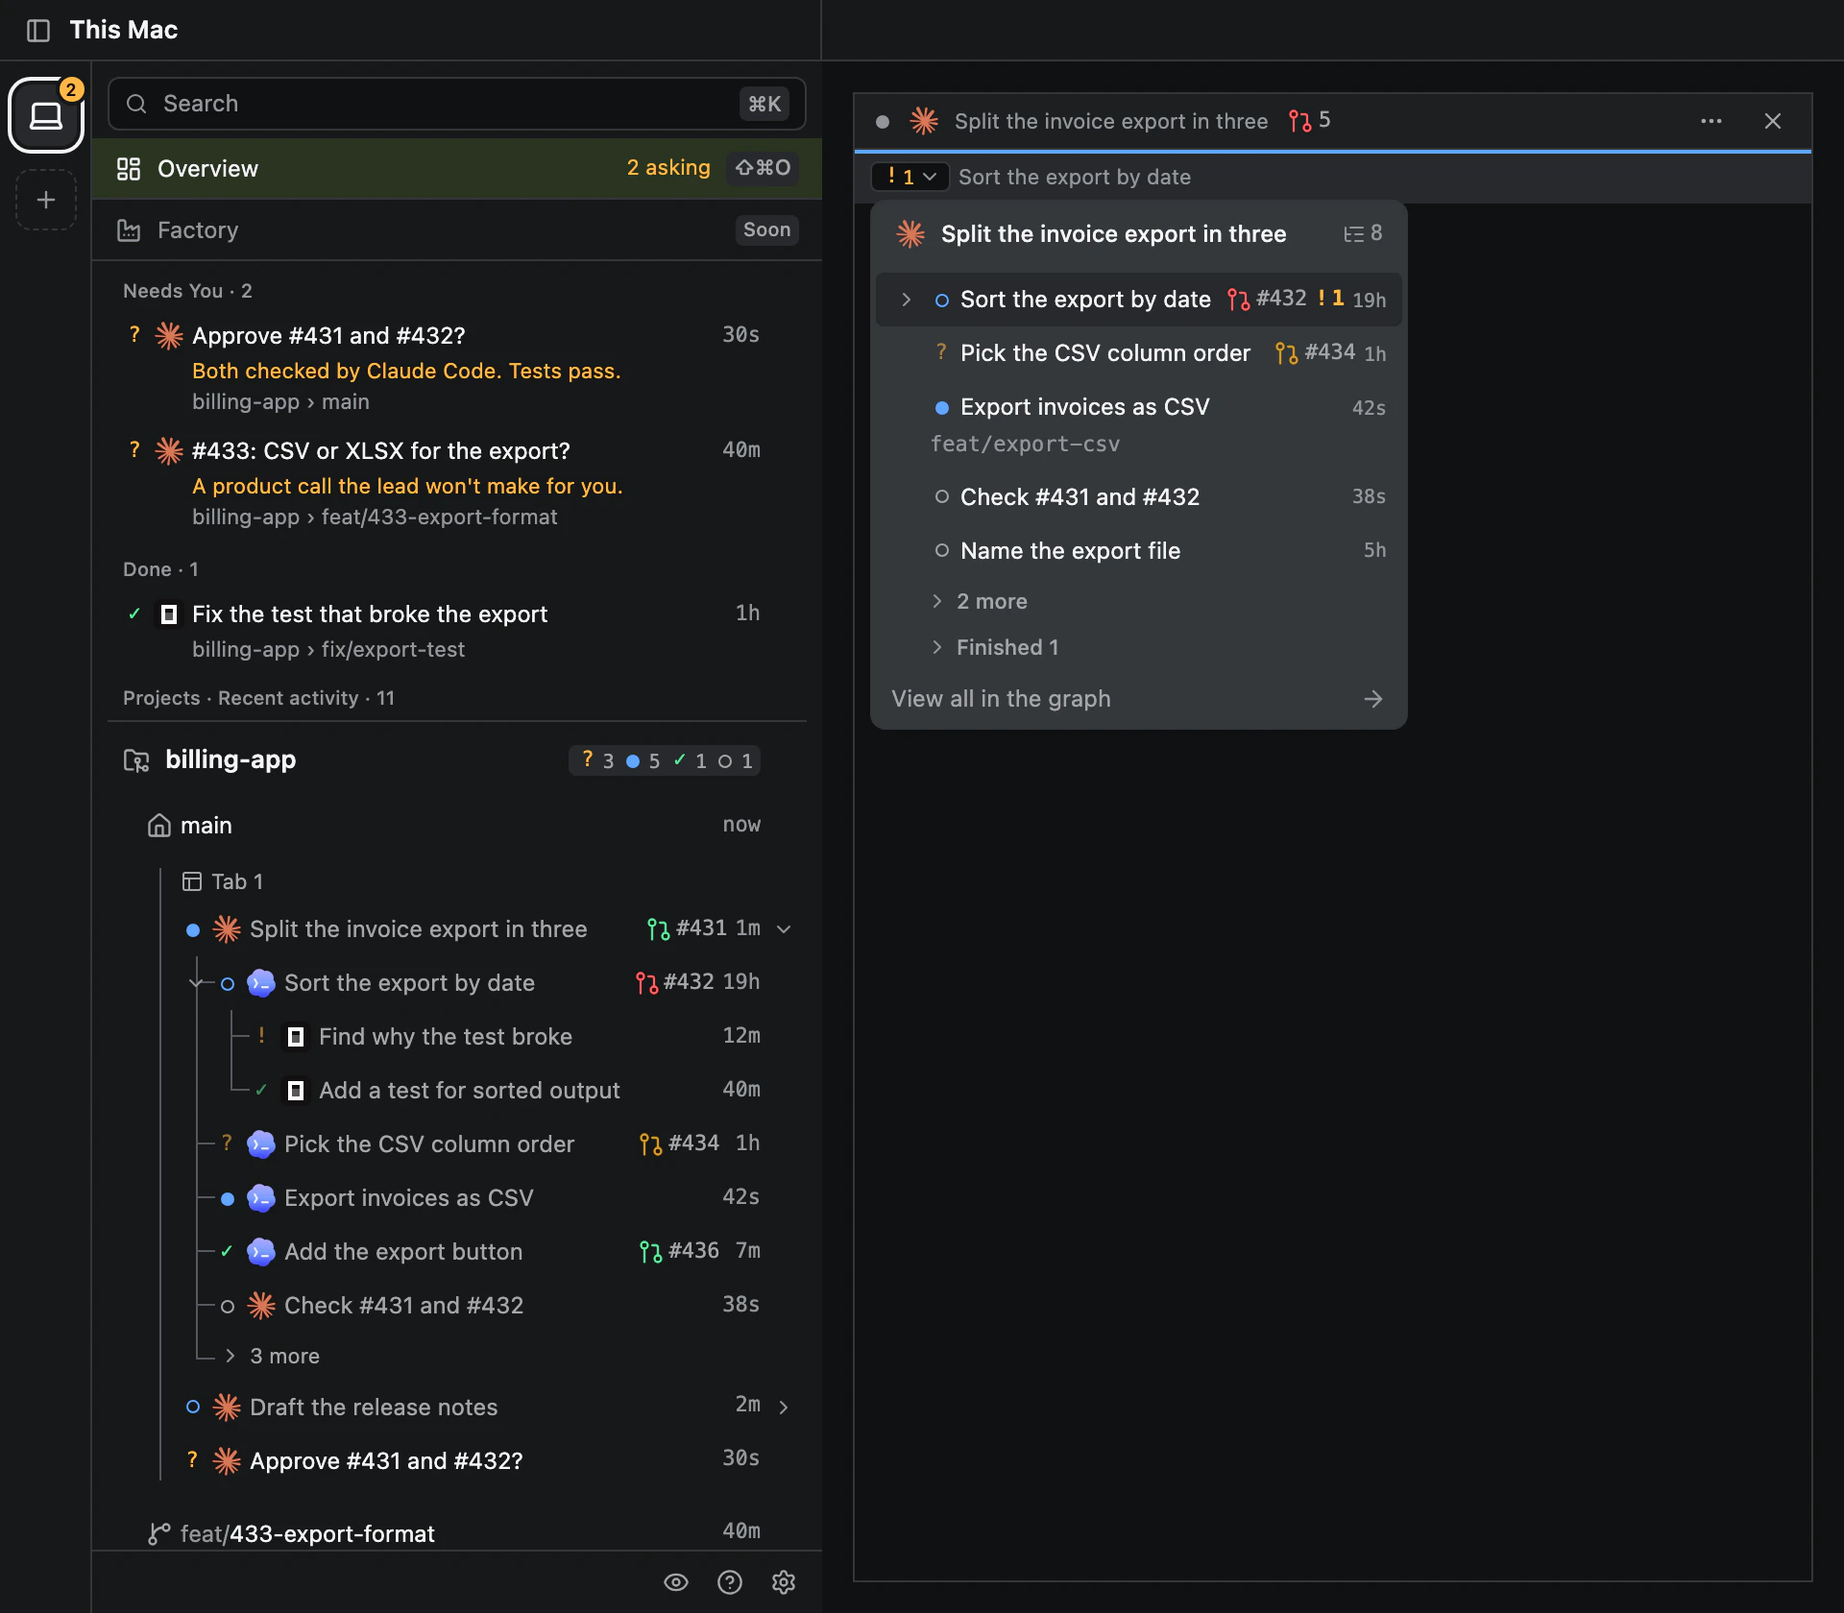
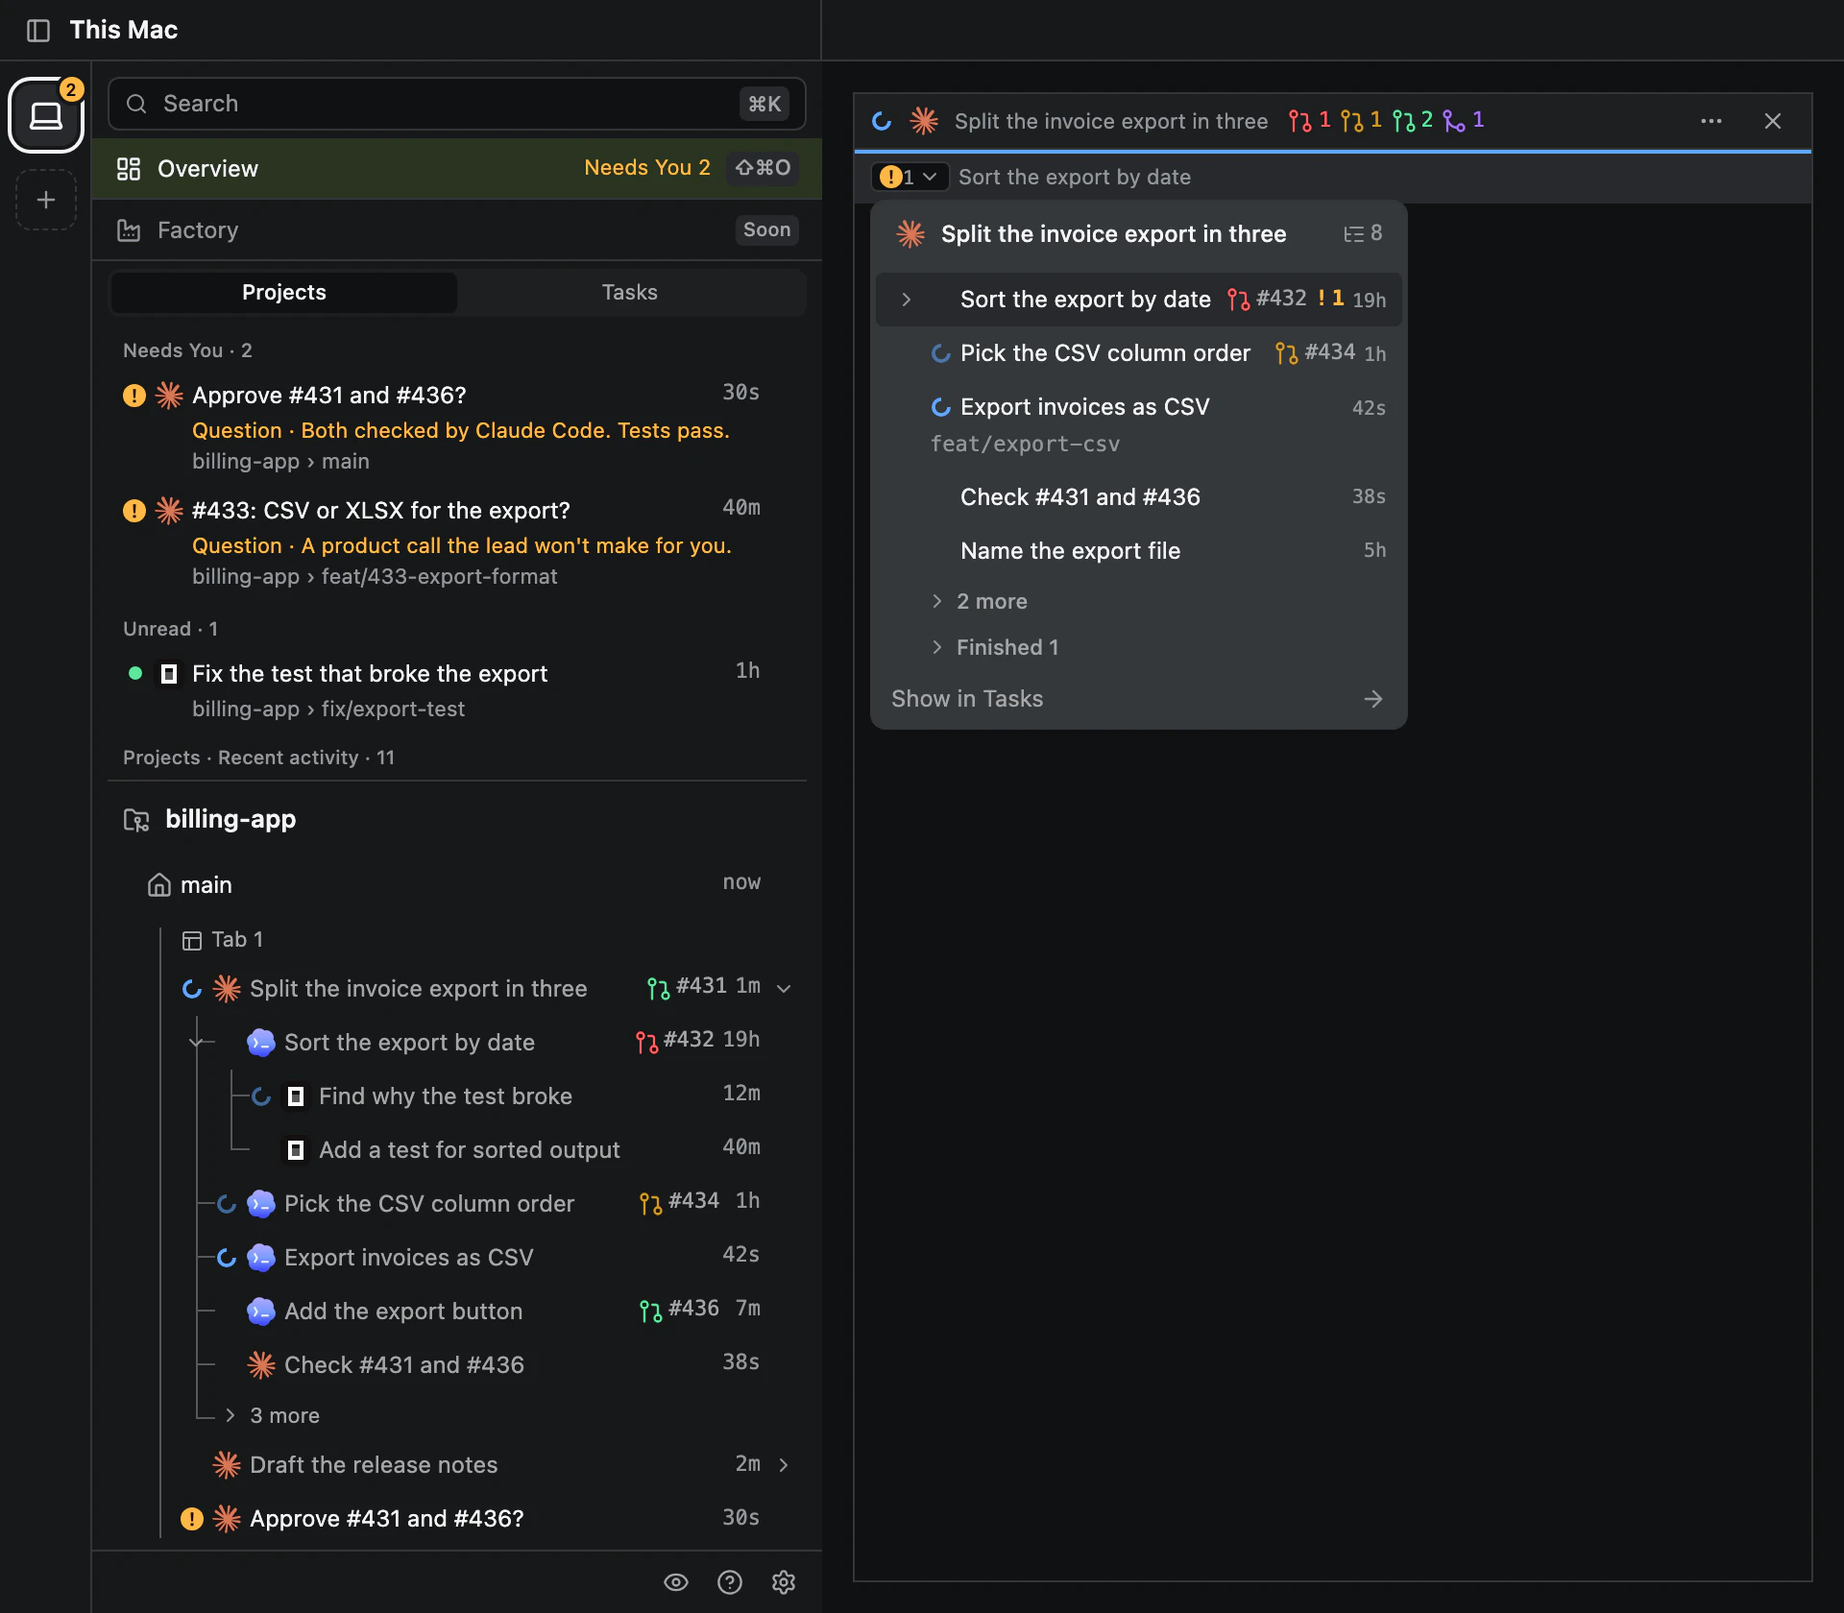
feat: capture the site hero from the shell's own window

diff --git a/web/src/gallery/landingSceneData.ts b/web/src/gallery/landingSceneData.ts
@@ -1,12 +1,13 @@
-// The product shots on the introduction site (site/index.html, the three
-// pillars): the story of its one-night timeline, drawn by the shell's own
-// components. Everything is the gallery's frozen sidebar fixture with its
-// invented text replaced, never a second projection: the groups, counts and
-// tree shape are what the core wrote for that fixture, and only the words and
-// agent kinds a visitor reads are English and match the page. No name here is
-// a person, a machine or a path of anyone's.
+// The product shots on the introduction site (site/index.html, the hero and
+// the three pillars): the story of its one-night timeline, drawn by the
+// shell's own components. Everything is the gallery's frozen sidebar fixture
+// with its invented text replaced, never a second projection: the groups,
+// counts and tree shape are what the core wrote for that fixture, and only the
+// words and agent kinds a visitor reads are English and match the page. No
+// name here is a person, a machine or a path of anyone's.
 
-import type { AgentRow, Checkout, Device, SnapshotRest, Workspace } from "../snapshot";
+import type { PrBoard } from "../agentScope";
+import type { AgentRow, Checkout, Device, PullRequest, SnapshotRest, Workspace } from "../snapshot";
 import type { MobileState } from "../mobileSettings";
 import { EMPTY_GALLERY_SCOPE } from "./agentScopes";
 import { REFERENCE_FOLDS, sidebarScene } from "./sceneData";
@@ -18,14 +19,14 @@ const ref = (number: number) => `#${number}`;
 type Words = { title: string; kind: string; detail?: string; pull?: [number, string] };
 
 const AGENT_WORDS: Record<string, Words> = {
-  a3: { title: `Approve ${ref(431)} and ${ref(432)}?`, kind: "claude", detail: "Both checked by Claude Code. Tests pass." },
+  a3: { title: `Approve ${ref(431)} and ${ref(436)}?`, kind: "claude", detail: "Both checked by Claude Code. Tests pass." },
   q1: { title: `${ref(433)}: CSV or XLSX for the export?`, kind: "claude", detail: "A product call the lead won't make for you." },
   q2: { title: "Fix the test that broke the export", kind: "opencode" },
   e1: { title: "Task detail API", kind: "codex" },
   tn1: { title: "Tidy the meeting notes", kind: "claude" },
   a1: { title: "Split the invoice export in three", kind: "claude", pull: [431, "Export invoices as CSV"] },
   a1c1: { title: "Export invoices as CSV", kind: "codex" },
-  a1c2: { title: `Check ${ref(431)} and ${ref(432)}`, kind: "claude" },
+  a1c2: { title: `Check ${ref(431)} and ${ref(436)}`, kind: "claude" },
   a1c3: { title: "Sort the export by date", kind: "codex", pull: [432, "Sort the export by date"] },
   a1g1: { title: "Find why the test broke", kind: "opencode" },
   a1g2: { title: "Add a test for sorted output", kind: "opencode" },
@@ -172,3 +173,131 @@ export function landingDevices(nowMs: number, width: number): { rest: SnapshotRe
   };
   return { rest, agents: scene.agents, mobile };
 }
+
+/**
+ * Which group of the hero's PRs tool each pull request state goes in, and the
+ * agent the row names for it: the core's own states for the story's pull
+ * requests, so the list agrees with the marks the sidebar draws for them.
+ */
+const HERO_PULL_GROUPS: Record<PullRequest["state"], PrBoard["rows"][number]["group"] | null> = { mergeable: "needs_you", failed: "working", pending: "working", merged: "merged", draft: null, closed: null };
+const HERO_PULL_AGENTS: Record<number, string> = { 431: "a3", 436: "a3", 432: "a1g1" };
+
+/** The PRs tool's width in the hero, narrow enough that the two terminals beside it read whole. */
+const HERO_LANE_WIDTH = 360;
+
+/** The two panes the hero shows side by side, of the billing-app main checkout's one Agent tab. */
+export const HERO_PANES = ["a1", "a3"] as const;
+
+/**
+ * The hero: the attention shot's window with the billing-app main checkout in
+ * front, its lead and the agent asking to merge side by side, and the PRs tool
+ * pinned beside them listing what those agents opened.
+ */
+export function landingWorkspace(nowMs: number, width: number): { rest: SnapshotRest; agents: AgentRow[] } {
+  const scene = landingSidebar(nowMs, [], width);
+  const navigator = scene.rest.navigator!;
+  const project = navigator.workspaces!.find((row) => row.id === "hide")!;
+  const main = project.checkouts[0]!;
+  const tab = main.tabs[0]!;
+  const story = scene.agents.flatMap((row) => (row.request?.pull_requests ?? []).map((pull, index) => ({ pull, row, state: row.state.pr?.pulls.find((one) => one.index === index)?.state })));
+  const listed = story.flatMap(({ pull, row, state }) => {
+    const group = state ? HERO_PULL_GROUPS[state] : null;
+    return state && group ? [{ pull, state, group, agent: HERO_PULL_AGENTS[pull.number] ?? row.pane_id }] : [];
+  });
+  const pulls: PullRequest[] = listed.map(({ pull, state }) => ({
+    number: pull.number, title: pull.title, url: pull.url, badge: pull.badge, review: pull.review ?? null, is_draft: false, checks: pull.checks,
+    head_branch: pull.head_branch, base_branch: "main", closing_issues: [], state, created_at_unix_ms: nowMs - 40 * 60_000, updated_at_unix_ms: nowMs - 2 * 60_000,
+    ...(state === "merged" ? { merged_at_unix_ms: nowMs - 9 * 60_000 } : {}),
+  }));
+  const groups = (["needs_you", "working", "merged"] as const).map((group) => ({ group, numbers: listed.filter((item) => item.group === group).map((item) => item.pull.number) }));
+  const prs: PrBoard = {
+    rows: listed.map(({ pull, state, group, agent }) => ({
+      number: pull.number, group, fold: null,
+      reason: group === "needs_you" ? { kind: "merge" } : group === "merged" ? { kind: "merged", since_unix_ms: nowMs - 9 * 60_000 } : state === "failed" ? { kind: "failed", since_unix_ms: nowMs - 12 * 60_000 } : { kind: "working", since_unix_ms: nowMs - 6 * 60_000 },
+      agents: [{ pane_id: agent, occurrence: 0 }], agent_pane: agent, checkout_id: main.id, checkout_ids: [main.id], issue: null,
+    })),
+    groups,
+    needs_you: groups[0]!.numbers.length,
+  };
+  const github = { failure_category: null, available: true, loading: false, stale: false, last_success_at_unix_ms: nowMs - 60_000, unavailable_reason: null };
+  // A pane's header reads the title its agent row carries.
+  const titled = { ...tab, panes: tab.panes.map((pane) => ({ ...pane, identity_label: scene.agents.find((row) => row.pane_id === pane.id)?.identity_label ?? pane.identity_label })) };
+  const front: Workspace = { ...project, is_git: true, pull_requests: pulls, agent_scope: { ...project.agent_scope, prs }, checkouts: project.checkouts.map((checkout) => (checkout === main ? { ...checkout, github, tabs: [titled] } : checkout)) };
+  const rest: SnapshotRest = {
+    ...scene.rest,
+    navigator: { ...navigator, focused_workspace_id: project.id, focused_checkout_id: main.id, workspaces: navigator.workspaces!.map((row) => (row === project ? front : row)) },
+    pane_layouts: [{ workspace_id: project.id, tab_id: tab.id!, focused_pane_id: HERO_PANES[1], zoomed: false, root: { type: "split", direction: "right", ratio: 0.5, first: { type: "pane", pane_id: HERO_PANES[0] }, second: { type: "pane", pane_id: HERO_PANES[1] } } }],
+    workspace_view: {
+      agent_layout: { root: { area: { id: "g1", active: tab.id, displays: [{ id: tab.id! }] } }, active_area: "g1", canvases: {}, limits: { areas: 4, depth: 3, displays: 64 }, display_count: 1 },
+      device_id: "local", path: main.path, tool: "prs", last_tool: "prs", prs: { only_checkout: false }, pinned: true, tree: false, lane_width: HERO_LANE_WIDTH, tree_width: null, lane_called: 0, lane_calls: 0,
+      layout: { root: { area: { id: "v1", active: null, displays: [] } }, active_area: "v1", limits: { areas: 4, depth: 3, displays: 32 }, display_count: 0 },
+    },
+    terminal: { headers: { a1: { working: true, band: null } } },
+  };
+  return { rest, agents: scene.agents };
+}
+
+const CLAUDE = "\x1b[38;2;215;119;87m";
+const DIM = "\x1b[90m";
+const BOLD = "\x1b[1m";
+const GREEN = "\x1b[32m";
+const RESET = "\x1b[0m";
+const lines = (...rows: string[]) => rows.join("\r\n");
+
+/**
+ * What each hero pane's terminal shows: an agent CLI's own screen, as its
+ * program would draw it, over the page's story. `RULE` is drawn across the
+ * pane's width when it is written; the lead's screen starts two rows down,
+ * under the row of its child that asks.
+ */
+export const RULE = "{rule}";
+export const HERO_TERMINALS: Record<(typeof HERO_PANES)[number], string> = {
+  a1: lines(
+    "",
+    "",
+    `${CLAUDE}✻${RESET} ${BOLD}Claude Code${RESET}`,
+    `  ${DIM}~/billing-app · main${RESET}`,
+    "",
+    `${DIM}>${RESET} Split the invoice export in three`,
+    "",
+    "● Three parts, one Codex worker each.",
+    "",
+    `● ${BOLD}Bash${RESET}(hide agent spawn …)`,
+    `  ${DIM}⎿${RESET}  Export invoices as CSV`,
+    `● ${BOLD}Bash${RESET}(hide agent spawn …)`,
+    `  ${DIM}⎿${RESET}  Sort the export by date`,
+    `● ${BOLD}Bash${RESET}(hide agent spawn …)`,
+    `  ${DIM}⎿${RESET}  Add the export button`,
+    "",
+    "● The workers report back to me, and I",
+    "  check each pull request before you.",
+    "",
+    `${CLAUDE}✻ Waiting on 3 workers… ${DIM}(6m 12s)${RESET}`,
+    "",
+    `${DIM}${RULE}${RESET}`,
+    `${DIM}>${RESET} `,
+    `${DIM}${RULE}${RESET}`,
+    `  ${DIM}⏵⏵ accept edits on${RESET}`,
+  ),
+  a3: lines(
+    "",
+    `${CLAUDE}✻${RESET} ${BOLD}Claude Code${RESET}`,
+    `  ${DIM}~/billing-app · main${RESET}`,
+    "",
+    `${DIM}>${RESET} Check #431 and #436, then ask me`,
+    "",
+    `● ${BOLD}Bash${RESET}(pnpm test export)`,
+    `  ${DIM}⎿${RESET}  ${GREEN}38 passed${RESET}`,
+    "",
+    "● Both pull requests are ready:",
+    "  #431 Export invoices as CSV",
+    "  #436 Add the export button",
+    "",
+    `${DIM}${RULE}${RESET}`,
+    ` ${BOLD}Merge both into main?${RESET}`,
+    "",
+    ` ${CLAUDE}❯ 1. Yes, merge both${RESET}`,
+    "   2. Only #431",
+    "   3. Not yet",
+  ),
+};

diff --git a/web/src/gallery/LandingScene.tsx b/web/src/gallery/LandingScene.tsx
@@ -1,14 +1,16 @@
-// The introduction site's product shots (site/index.html, the pillars): the
-// shell's own Sidebar, pane header and Settings tabs over the invented story
-// of the page's one-night timeline (`landingSceneData.ts`). One shot fills one
-// document, because the stores a scene seeds are the app's singletons;
-// `site/scripts/capture-shots.mjs` photographs each in both themes.
+// The introduction site's product shots (site/index.html, the hero and the
+// pillars): the shell's own window, Sidebar, pane header and Settings tabs
+// over the invented story of the page's one-night timeline
+// (`landingSceneData.ts`). One shot fills one document, because the stores a
+// scene seeds are the app's singletons; `scripts/capture-site-shots.mjs`
+// photographs each in both themes.
 //
-//   attention  the sidebar with the Needs You and Done groups raised above the project tree
+//   hero       the whole window: the sidebar, a lead and the agent asking to merge side by side, and the PRs tool
+//   attention  the sidebar with the Needs You and Unread groups raised above the project tree
 //   agents     a lead with its children across agent CLIs in the tree, and the lead's pane header with its child row
 //   core       the device rail beside Settings > Devices and the paired phone
 
-import { useLayoutEffect, useMemo } from "react";
+import { useEffect, useLayoutEffect, useMemo, useState } from "react";
 import { createActions } from "../actions";
 import { TooltipProvider } from "../components/ui/tooltip";
 import { clientI18n } from "../i18n/translator";
@@ -17,11 +19,13 @@ import { PaneView } from "../PaneView";
 import { DevicesTab } from "../settings/DevicesTab";
 import { Sidebar } from "../sidebar";
 import { useShellStore } from "../store";
+import { feedChunks, terminalFor } from "../terminals";
 import { TitleRow } from "../TitleRow";
 import { useUiStore } from "../ui";
-import { landingDevices, landingSidebar } from "./landingSceneData";
+import { WorkspaceScreen } from "../WorkspaceScreen";
+import { HERO_PANES, HERO_TERMINALS, RULE, landingDevices, landingSidebar, landingWorkspace } from "./landingSceneData";
 
-export const LANDING_SHOTS = ["attention", "agents", "core"] as const;
+export const LANDING_SHOTS = ["hero", "attention", "agents", "core"] as const;
 export type LandingShot = (typeof LANDING_SHOTS)[number];
 /** `narrow` is the phone variant: the key part of the shot alone, at a width a phone shows without sideways scrolling. */
 export type LandingSceneParams = { shot: LandingShot; theme: "light" | "dark"; narrow: boolean };
@@ -33,7 +37,7 @@ export function landingSceneParams(params: URLSearchParams): LandingSceneParams 
 }
 
 /** The sidebar's width: wide enough that the page's example titles read whole, narrower where Settings needs the room. */
-const SIDEBAR_WIDTH: Record<LandingShot, number> = { attention: 380, agents: 380, core: 340 };
+const SIDEBAR_WIDTH: Record<LandingShot, number> = { hero: 320, attention: 380, agents: 380, core: 340 };
 /** The phone variant of the agents shot is the sidebar tree alone. */
 const NARROW_SIDEBAR_WIDTH = 372;
 
@@ -42,6 +46,7 @@ export function LandingScene({ shot, theme, narrow }: LandingSceneParams) {
   const fixture = useMemo(() => {
     const now = Date.now();
     if (shot === "core") return { ...landingDevices(now, SIDEBAR_WIDTH.core), pane: null };
+    if (shot === "hero") return { ...landingWorkspace(now, SIDEBAR_WIDTH.hero), pane: null, mobile: null };
     const scene = landingSidebar(now, shot === "agents" ? ["a1"] : [], narrow ? NARROW_SIDEBAR_WIDTH : SIDEBAR_WIDTH[shot]);
     const lead = scene.agents.find((row) => row.pane_id === "a1")!;
     const pane = { ...scene.rest.navigator!.workspaces!.find((row) => row.id === "hide")!.checkouts[0]!.tabs[0]!.panes.find((row) => row.id === "a1")!, identity_label: lead.identity_label };
@@ -52,11 +57,30 @@ export function LandingScene({ shot, theme, narrow }: LandingSceneParams) {
 
   useLayoutEffect(() => {
     useShellStore.setState({ rest: fixture.rest, agents: fixture.agents, mobile: fixture.mobile, connection: "live" });
-    useUiStore.setState({ screen: { kind: "main" }, overviewOpen: false });
+    useUiStore.setState({ screen: { kind: shot === "hero" ? "workspace" : "main" }, overviewOpen: false, laneShown: shot === "hero" });
     const root = document.documentElement;
     root.classList.toggle("dark", theme === "dark");
     root.classList.toggle("light", theme === "light");
   }, [fixture, theme]);
+
+  // The hero's terminals show what each agent CLI drew, written as the core
+  // streams a pane's output, once each terminal has fitted its pane: a pane
+  // keeps no scrollback, so text written into a smaller grid would be lost.
+  const [written, setWritten] = useState(false);
+  useEffect(() => {
+    if (shot !== "hero") return;
+    const encode = (text: string) => btoa(String.fromCharCode(...new TextEncoder().encode(text)));
+    let frame = requestAnimationFrame(function wait() {
+      const fitted = HERO_PANES.every((id) => (terminalFor(id)?.rows ?? 0) > HERO_TERMINALS[id].split("\r\n").length);
+      if (!fitted) {
+        frame = requestAnimationFrame(wait);
+        return;
+      }
+      feedChunks(HERO_PANES.map((pane_id) => ({ pane_id, bytes_base64: encode(HERO_TERMINALS[pane_id].replaceAll(RULE, "─".repeat(terminalFor(pane_id)!.cols))) })));
+      setWritten(true);
+    });
+    return () => cancelAnimationFrame(frame);
+  }, [shot]);
 
   useLayoutEffect(() => {
     void clientI18n.changeLanguage("en");
@@ -65,10 +89,11 @@ export function LandingScene({ shot, theme, narrow }: LandingSceneParams) {
 
   return (
     <TooltipProvider>
-      <div className="flex h-full flex-col bg-background text-foreground" data-gallery-scene="landing" data-landing-shot={shot} data-landing-narrow={narrow ? "" : undefined}>
+      <div className="flex h-full flex-col bg-background text-foreground" data-gallery-scene="landing" data-landing-shot={shot} data-landing-narrow={narrow ? "" : undefined} data-landing-terminals={written ? "written" : undefined}>
         {narrow && shot === "core" ? null : <TitleRow actions={actions} />}
         <div className="flex min-h-0 flex-1">
           {narrow && shot === "core" ? null : <Sidebar actions={actions} />}
+          {shot === "hero" ? <WorkspaceScreen actions={actions} /> : null}
           {shot === "agents" && fixture.pane && !narrow ? (
             <main className="min-w-0 flex-1 p-lg">
               <div className="h-full min-w-0 overflow-hidden border border-border" data-landing-pane>
